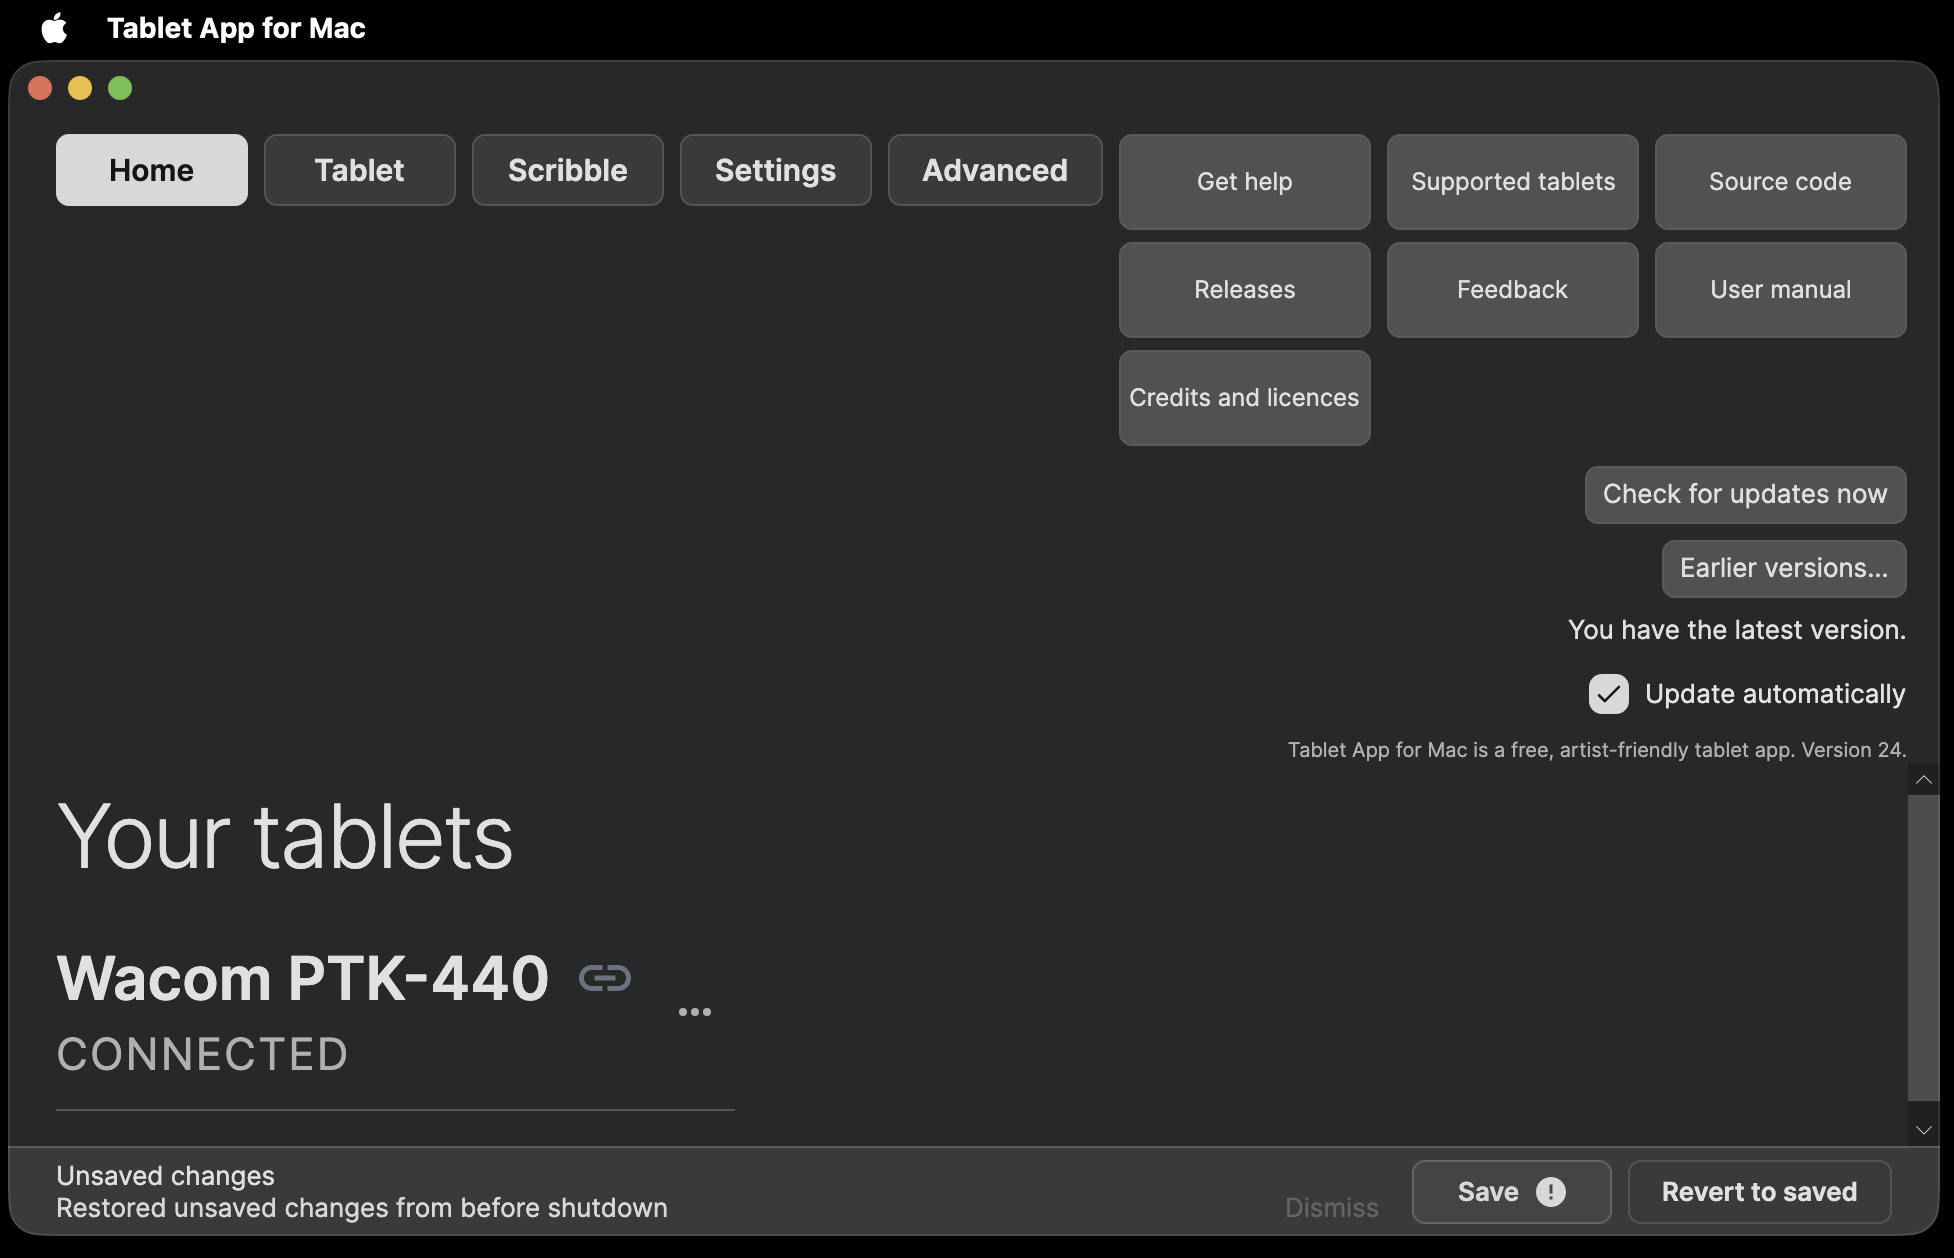
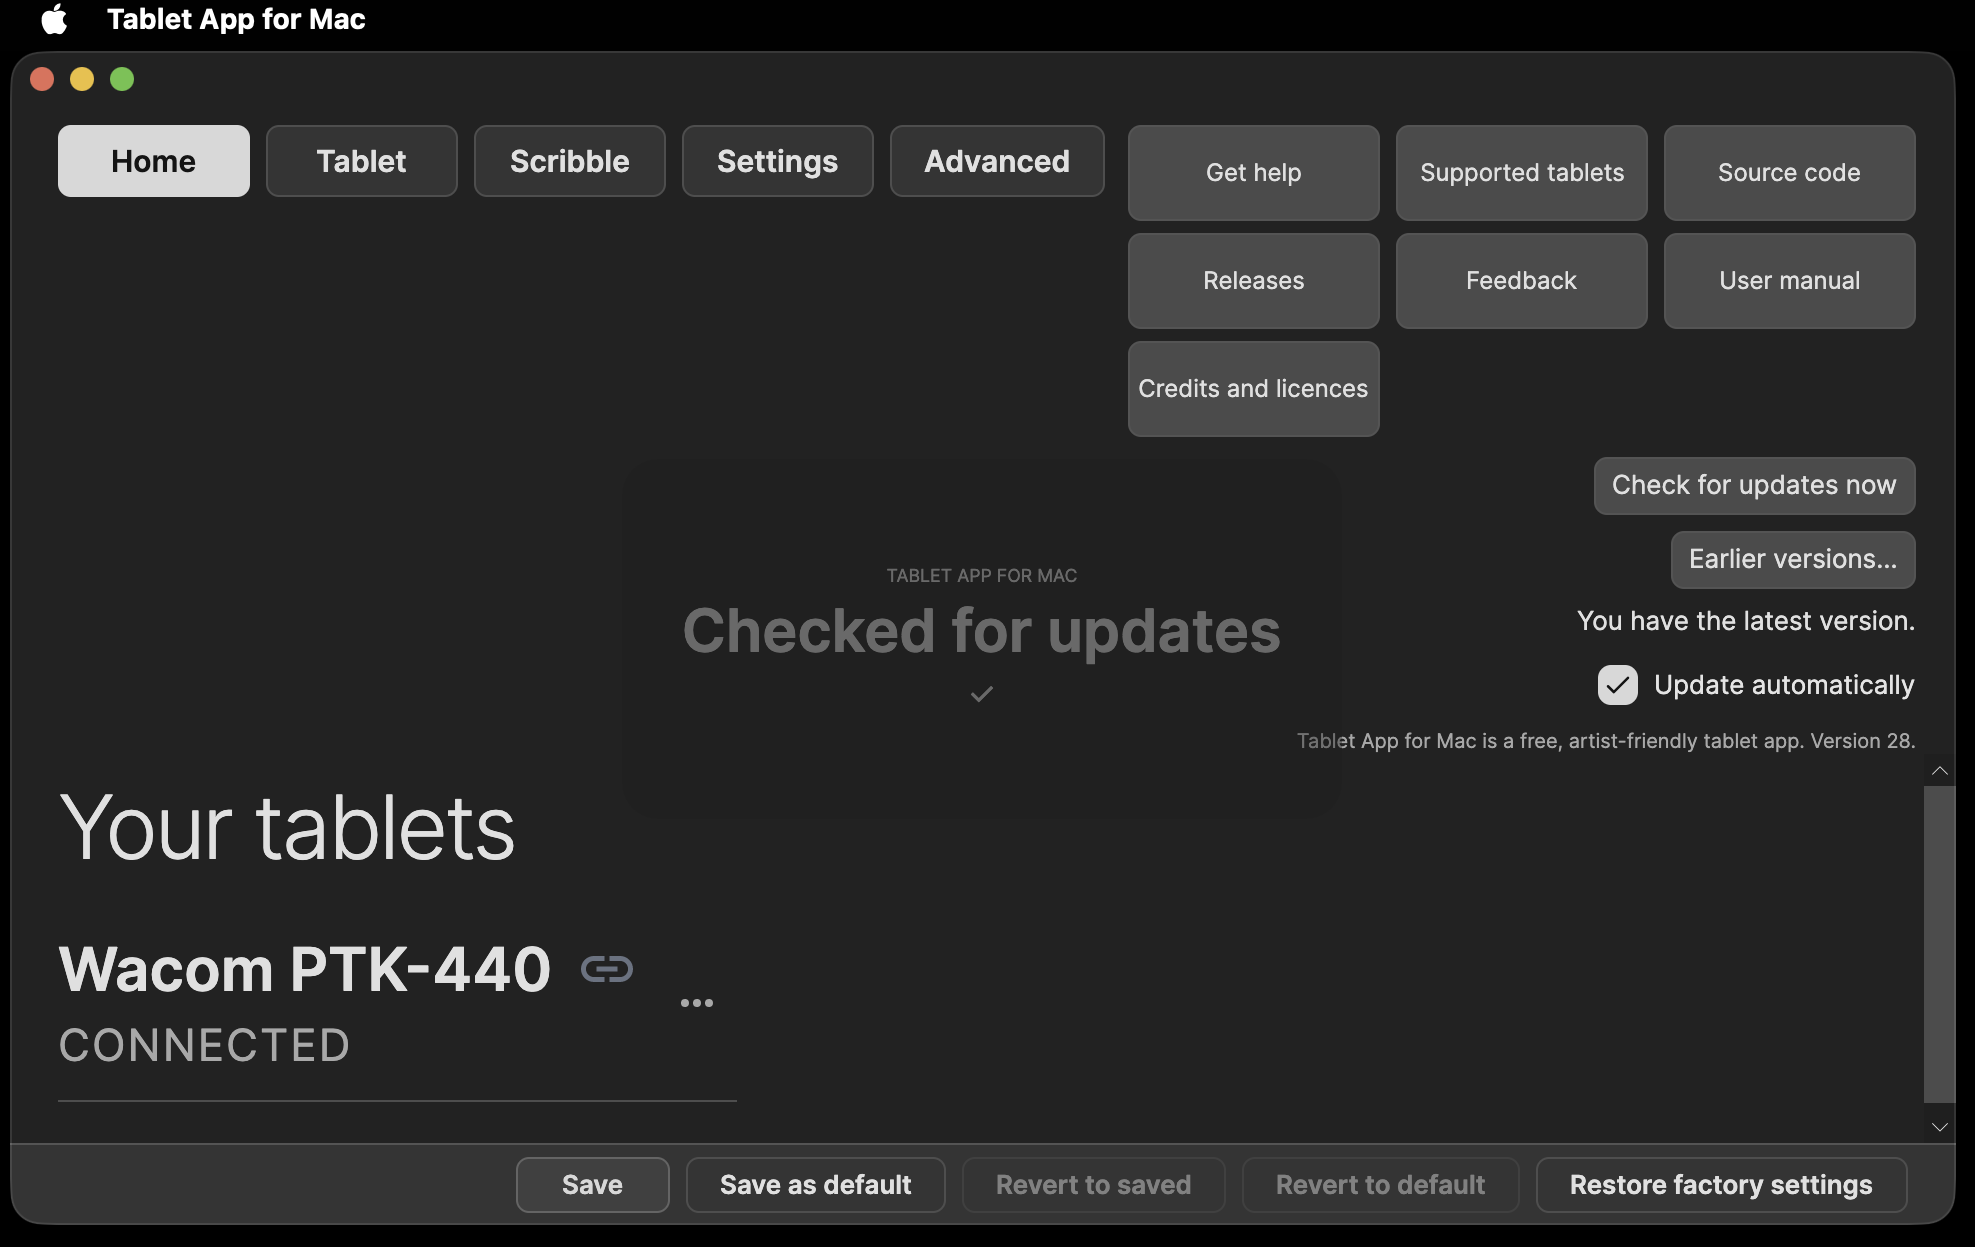
Help + manual: Version 28 Pen and Home pictures (Zak's screenshots 16 Nov); Eraser picture follows with the V29 Buttons layout
Claude-Session: https://claude.ai/code/session_01KKNef7UtBnnRDnrPVj11MJ

diff --git a/site/src/help/index.html b/site/src/help/index.html
@@ -49,7 +49,7 @@
 <li>Only one copy runs. Opening the app again brings the running copy to the front.</li>
 <li>To change the language, choose it under <strong>Settings › System › Language</strong>. <strong>Match system</strong> follows your Mac's language.</li>
 </ul><p class="backtop"><a href="#chapters">↑ Back to chapters</a></p></section>
-<section class="chap" id="home" aria-labelledby="home-h"><h2 id="home-h">Home</h2><figure><picture><source type="image/webp" srcset="/tablet-app-for-mac/assets/manual/02-home-overview.webp"><source type="image/png" srcset="/tablet-app-for-mac/assets/manual/02-home-overview.png"><img src="/tablet-app-for-mac/assets/manual/02-home-overview.webp" alt="Home" width="960" height="618" loading="lazy" decoding="async"></picture><figcaption>Home</figcaption></figure>
+<section class="chap" id="home" aria-labelledby="home-h"><h2 id="home-h">Home</h2><figure><picture><source type="image/webp" srcset="/tablet-app-for-mac/assets/manual/02-home-overview.webp"><source type="image/png" srcset="/tablet-app-for-mac/assets/manual/02-home-overview.png"><img src="/tablet-app-for-mac/assets/manual/02-home-overview.webp" alt="Home" width="960" height="606" loading="lazy" decoding="async"></picture><figcaption>Home</figcaption></figure>
 <ul>
 <li><strong>Your tablets</strong>: one card per connected or remembered tablet. Click a card to open its settings.</li>
 <li>Card <strong>⋯</strong> menu: <strong>Open tablet settings</strong>, <strong>Forget this tablet</strong>.</li>
@@ -64,7 +64,7 @@
 <li><strong>Refresh</strong> reloads the tablet's settings from the driver.</li>
 <li>Footer: <strong>Options…</strong> (Settings), <strong>?</strong> (this manual), <strong>Report a problem or send a recommendation…</strong> (see Report a problem or send a recommendation).</li>
 </ul><p class="backtop"><a href="#chapters">↑ Back to chapters</a></p></section>
-<section class="chap" id="tablet-pen" aria-labelledby="tablet-pen-h"><h2 id="tablet-pen-h">Tablet › Pen</h2><figure><picture><source type="image/webp" srcset="/tablet-app-for-mac/assets/manual/05-pen-tool-row.webp"><source type="image/png" srcset="/tablet-app-for-mac/assets/manual/05-pen-tool-row.png"><img src="/tablet-app-for-mac/assets/manual/05-pen-tool-row.webp" alt="Pen" width="960" height="1244" loading="lazy" decoding="async"></picture><figcaption>Pen</figcaption></figure>
+<section class="chap" id="tablet-pen" aria-labelledby="tablet-pen-h"><h2 id="tablet-pen-h">Tablet › Pen</h2><figure><picture><source type="image/webp" srcset="/tablet-app-for-mac/assets/manual/05-pen-tool-row.webp"><source type="image/png" srcset="/tablet-app-for-mac/assets/manual/05-pen-tool-row.png"><img src="/tablet-app-for-mac/assets/manual/05-pen-tool-row.webp" alt="Pen" width="960" height="1370" loading="lazy" decoding="async"></picture><figcaption>Pen</figcaption></figure>
 <table><tr><th>Control</th><th>Default</th><th>Function</th></tr>
 <tr><td>Tilt › Turn tilt off</td><td>Off</td><td>Stops sending tilt. Shared with the eraser.</td></tr>
 <tr><td>Tip Feel</td><td>Middle (linear)</td><td>Soft to Firm pressure curve.</td></tr>
@@ -232,7 +232,7 @@
 <li><strong>Update automatically</strong> is an optional setting just below it. It is off unless you turn it on. When it is on, the app downloads a new stable version by itself, then asks for OK before installing. It never installs a BETA by itself.</li>
 <li>To go back to an earlier version, click <strong>Earlier versions…</strong> on <strong>Home</strong> and choose one of the two most recent stable versions older than the one you have. This works from a stable version and from a BETA. Your settings stay.</li>
 </ul>
-<figure><picture><source type="image/webp" srcset="/tablet-app-for-mac/assets/manual/85-home-updates.webp"><source type="image/png" srcset="/tablet-app-for-mac/assets/manual/85-home-updates.png"><img src="/tablet-app-for-mac/assets/manual/85-home-updates.webp" alt="Home on Version 24: You have the latest version. Check for updates now, Earlier versions…, and Update automatically are on the right." width="960" height="618" loading="lazy" decoding="async"></picture><figcaption>Home on Version 24: You have the latest version. Check for updates now, Earlier versions…, and Update automatically are on the right.</figcaption></figure>
+<figure><picture><source type="image/webp" srcset="/tablet-app-for-mac/assets/manual/85-home-updates.webp"><source type="image/png" srcset="/tablet-app-for-mac/assets/manual/85-home-updates.png"><img src="/tablet-app-for-mac/assets/manual/85-home-updates.webp" alt="Home on Version 28: You have the latest version. Check for updates now, Earlier versions…, and Update automatically are on the right." width="960" height="606" loading="lazy" decoding="async"></picture><figcaption>Home on Version 24: You have the latest version. Check for updates now, Earlier versions…, and Update automatically are on the right.</figcaption></figure>
 <ul>
 <li>The two permissions are asked for only at the first installation. Updates from Version 18 on keep them.</li>
 <li><strong>Coming from Version 6:</strong> install Version 7 or later by hand once (see Install and first launch). Then do the one-time step for Version 17 or older above.</li>

diff --git a/OpenTabletArtist/Assets/manual/manual.md b/OpenTabletArtist/Assets/manual/manual.md
@@ -350,7 +350,7 @@ The Wacom driver and OpenTabletDriver cannot both use the tablet. Quit or uninst
 - **Update automatically** is an optional setting just below it. It is off unless you turn it on. When it is on, the app downloads a new stable version by itself, then asks for OK before installing. It never installs a BETA by itself.
 - To go back to an earlier version, click **Earlier versions…** on **Home** and choose one of the two most recent stable versions older than the one you have. This works from a stable version and from a BETA. Your settings stay.
 
-![Home on Version 24: You have the latest version. Check for updates now, Earlier versions…, and Update automatically are on the right.](img/85-home-updates.png)
+![Home on Version 28: You have the latest version. Check for updates now, Earlier versions…, and Update automatically are on the right.](img/85-home-updates.png)
 
 - The two permissions are asked for only at the first installation. Updates from Version 18 on keep them.
 - **Coming from Version 6:** install Version 7 or later by hand once (see Install and first launch). Then do the one-time step for Version 17 or older above.
